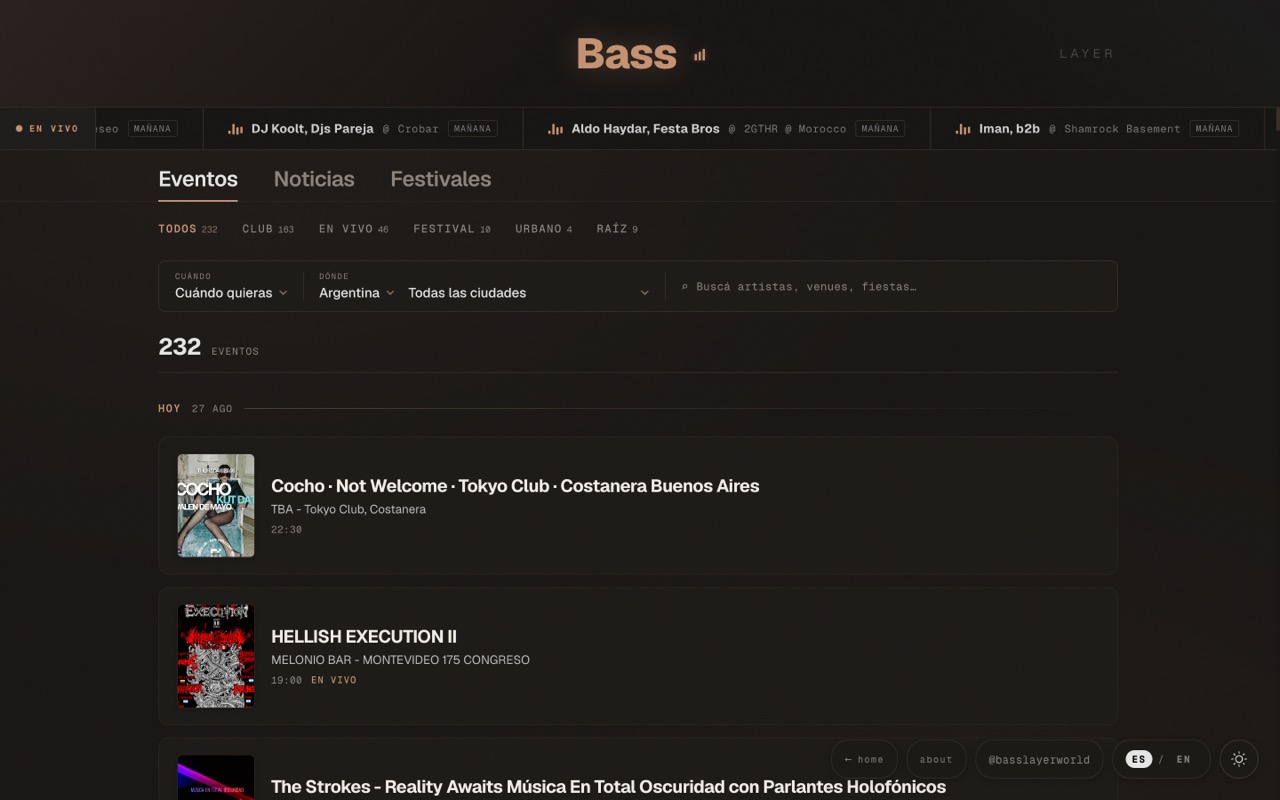
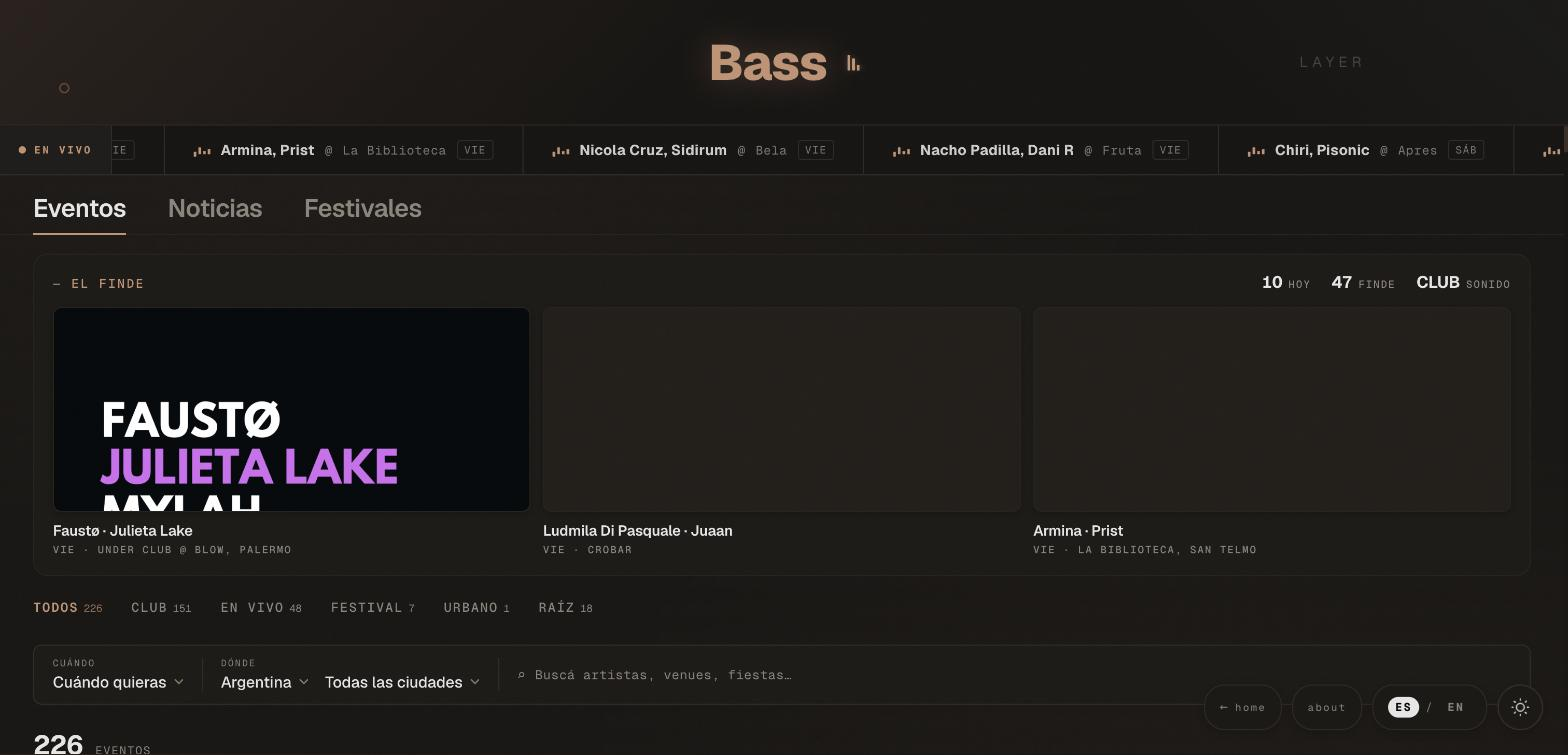
BassLayer: refleja el rediseño de dos mundos (eventos + crypto)
Nuevas capturas del sitio en vivo (home partida, agenda EL FINDE,
terminal crypto, feed de noticias) + copy: blurb, approach, servicio
Producto y fecha a 2026.

diff --git a/src/data/projects.ts b/src/data/projects.ts
@@ -23,6 +23,6 @@ const ord = (slug: string, nums: number[]) => nums.map((n) => `/img/src/${slug}-
 export const projects: Project[] = [
   { slug: 'valecasenave', name: 'Vale Casenave', category: 'Editorial',     role: 'Dirección de arte & Desarrollo', shots: ord('valecasenave', [1,2,3,4,5]), accent: '#5cb0d2', ended: '2025-01', url: 'https://valecasenave.com', blurb: 'Sitio editorial de una comunicadora y atleta: portada, cobertura deportiva y el archivo de sus ediciones TEDx.', stack: ['Next.js', 'React', 'Vercel'], services: ['Dirección de arte', 'Diseño', 'Desarrollo', 'Motion'], approach: 'Había que unir comunicación, deporte y el archivo TEDx en un solo relato. Resolví una portada viva y un sistema editorial multilingüe (ES/EN/PT) que se recorre por scroll.', character: { spin: 0.55, ripple: 0, pulse: 0, breathe: 0.35 } },  // editorial: lenta, contenida
   { slug: 'pulz',         name: 'PULZ',          category: 'Plataforma',    role: 'Producto & Desarrollo',          shots: ord('pulz', [2,1,3,4,5]),         accent: '#e6ff33', ended: '2025-07', url: 'https://pulz.run',        blurb: 'Plataforma de running — “correr es el plan”: planes, majors y comunidad de corredores.', stack: ['JavaScript', 'Supabase', 'Bootstrap', 'Vercel'], services: ['Producto', 'Diseño', 'Desarrollo'], approach: 'El calendario de carreras de LATAM estaba disperso. Armé una plataforma que centraliza planes, las majors y la comunidad, con cuentas y multilingüe (ES/EN/PT).', character: { spin: 1.6, ripple: 0, pulse: 1, breathe: 0 } },  // running: late, eléctrica
-  { slug: 'basslayer',    name: 'BassLayer',     category: 'Web App',       role: 'Diseño & Full-stack',            shots: ord('basslayer', [3,1,2,4,5]),    accent: '#7ec6d6', ended: '2025-08', url: 'https://basslayer.io',    blurb: 'Dashboard de ciclos de Bitcoin: feed en vivo, terminal y lectura de datos on-chain.', stack: ['React', 'Vite', 'Cloudflare'], services: ['Diseño', 'Desarrollo', 'Data viz'], approach: 'Cruzar dos mundos —música electrónica y crypto— en una sola interfaz. Construí un dashboard con lectura on-chain en vivo, terminal, feed de noticias y agenda de eventos.', character: { spin: 1.0, ripple: 1, pulse: 0, breathe: 0 } },  // datos/música: ondula como waveform
+  { slug: 'basslayer',    name: 'BassLayer',     category: 'Web App',       role: 'Diseño & Full-stack',            shots: ord('basslayer', [3,1,2,4,5]),    accent: '#7ec6d6', ended: '2026-09', url: 'https://basslayer.io',    blurb: 'Dos mundos en un mismo sitio: agenda de música electrónica LATAM y un terminal crypto en vivo —mercados, ciclos de Bitcoin, dólar y noticias.', stack: ['React', 'Vite', 'Cloudflare'], services: ['Producto', 'Diseño', 'Desarrollo', 'Data viz'], approach: 'El reto era unir dos audiencias —la escena de música electrónica y la cripto— sin que compitieran. Resolví una entrada partida donde elegís tu mundo: una agenda de eventos con filtros por ciudad y un terminal de mercados en vivo (dominancia, Fear & Greed, dólar ARS, ciclos BTC y noticias).', character: { spin: 1.0, ripple: 1, pulse: 0, breathe: 0 } },  // datos/música: ondula como waveform
   { slug: 'beokey',       name: 'BeOkey',        category: 'Landing',       role: 'Diseño & Desarrollo',            shots: ord('beokey', [4,1,2,3,5]),       accent: '#e0bd76', ended: '2024-04', url: 'https://beokey.live',     blurb: 'Landing de una plataforma de terapias: salas de acompañamiento y bienestar.', stack: ['HTML', 'JavaScript', 'Cloudflare'], services: ['Diseño', 'Desarrollo'], approach: 'Dar entidad profesional a una práctica de terapias holísticas. Landing cálida con servicios, testimonios y galería de sesiones.', character: { spin: 0.6, ripple: 0, pulse: 0, breathe: 1 } },  // bienestar: respira, en calma
 ];
